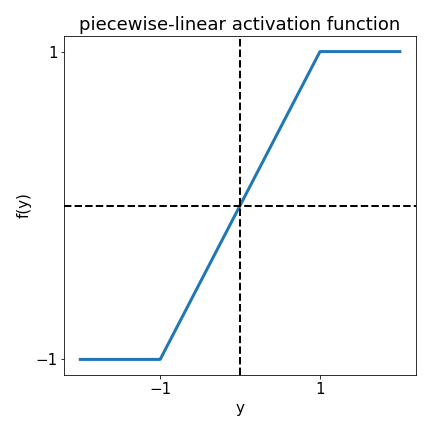
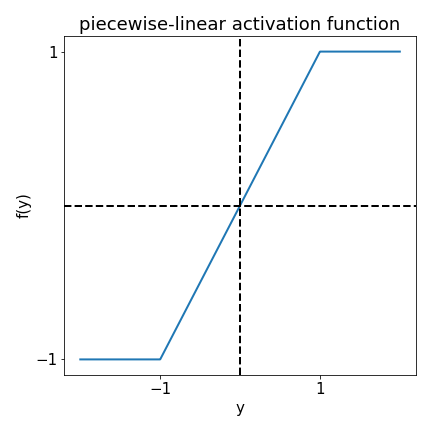
fixed attractor basins

diff --git a/BSB.py b/BSB.py
@@ -26,7 +26,7 @@ import os
 #%% figure parameters
 plt.rcParams['figure.figsize'] = (6,6)
 plt.rcParams['font.size']= 15
-plt.rcParams['lines.linewidth'] = 3
+plt.rcParams['lines.linewidth'] = 2
 
 #%% build BSB class
 class BSB:
@@ -48,8 +48,16 @@ class BSB:
     
     def initialize_connection_weights(self):
         """Initialize connection weights."""
-        weights = np.array([[0.035, -0.005],
-                            [-0.005, 0.035]])
+        max_eigenvector = np.array([[1], [-1]])
+        max_eigenvalue = 0.04
+
+        min_eigenvector = np.array([[1], [1]])
+        min_eigenvalue = 0.03
+        
+        max_weights = max_eigenvalue * 0.5 * np.dot(max_eigenvector, max_eigenvector.T)
+        min_weights = min_eigenvalue * 0.5 * np.dot(min_eigenvector, min_eigenvector.T)
+        
+        weights = max_weights + min_weights
         return weights
     
     def run_model(self, input_patterns, weights):
@@ -65,39 +73,7 @@ class BSB:
                 output_patterns[index].append(output_pattern)
                 iteration_count += 1
         return output_patterns
-    
-    def show_attractor_basin_boundary(self, x_n, y_n, k_1, k_2, lambda_min, lambda_max, ax):
-        """Show boundaries that separate distinct basins of attraction."""
-        # first set of boundaries
-        ax.plot(y_n, k_1 * y_n ** (lambda_min/lambda_max), c='k')
-        ax.plot(-y_n, -k_1 * y_n ** (lambda_min/lambda_max), c='k')
-        # second set of boundaries
-        ax.plot(x_n, k_2 * x_n ** (lambda_max/lambda_min), c='k')
-        ax.plot(-x_n, -k_2 * x_n ** (lambda_max/lambda_min), c='k')
-        
-    def show_attractor_basin(self, x_final_state, y_final_state, x_n, y_n, k_1, k_2, lambda_min, lambda_max, ax):
-        """Show basin of attraction based on output pattern."""
-        # top right corner
-        if [x_final_state, y_final_state] == [1, 1]:
-            ax.fill_between(x=y_n, y1=0, y2=1, color='grey', zorder=0)
-            ax.fill_between(x=y_n, y1=0, y2=k_1 * y_n ** (lambda_min/lambda_max), color='white')
-            ax.fill_between(x=x_n, y1=1, y2=k_2 * x_n ** (lambda_max/lambda_min), color='white')
-        # top left corner
-        if [x_final_state, y_final_state] == [-1, 1]:
-            ax.fill_between(x=-y_n, y1=0, y2=1, color='grey', zorder=0)
-            ax.fill_between(x=x_n,  y1=1, y2=k_2 * x_n ** (lambda_max/lambda_min), color='grey', zorder=0)
-            ax.fill_between(x=-y_n, y1=0, y2=-k_1 * y_n ** (lambda_min/lambda_max), color='grey', zorder=0)
-        # bottom left corner
-        if [x_final_state, y_final_state] == [-1, -1]:
-            ax.fill_between(x=-y_n, y1=0,  y2=-1, color='grey', zorder=0)
-            ax.fill_between(x=-x_n, y1=-1, y2=-k_2 * x_n ** (lambda_max/lambda_min), color='white')
-            ax.fill_between(x=-y_n, y1=0,  y2=-k_1 * y_n ** (lambda_min/lambda_max), color='white')
-        # bottom right corner
-        if [x_final_state, y_final_state] == [1, -1]:
-            ax.fill_between(x=y_n,  y1=0,  y2=-1, color='grey', zorder=0)
-            ax.fill_between(x=y_n,  y1=-1, y2=k_1 * y_n ** (lambda_min/lambda_max), color='grey', zorder=0)
-            ax.fill_between(x=-x_n, y1=-1, y2=-k_2 * x_n ** (lambda_max/lambda_min), color='grey', zorder=0)
-            
+                        
     def plot_activation_function(self):
         """Plot piecewise-linear activation function."""
         fig, ax = plt.subplots()
@@ -114,7 +90,31 @@ class BSB:
         fig.tight_layout()
         fig.savefig(os.path.join(os.getcwd(), 'figure_1'))
         
-    def plot_bsb_dynamics(self, x_n, y_n, k_1, k_2, lambda_min, lambda_max):
+    def plot_attractor_basin_boundary(self, lambda_min, lambda_max, ax):
+        """Plot boundaries that separate distinct basins of attraction."""
+        # attractor intersections
+        x0 = (lambda_max * np.sqrt(2)) / (lambda_min + lambda_max)
+        y0 = (lambda_min * np.sqrt(2)) / (lambda_min + lambda_max)
+        # attractor coefficient
+        k = y0 / x0 ** (lambda_max/lambda_min)
+        # x-coordinates
+        x = np.linspace(-1, 1, 100)
+        # y-coordinates
+        y_pos =  k * np.sign(x) * abs(x) ** (lambda_max/lambda_min)
+        y_neg = -k * np.sign(x) * abs(x) ** (lambda_max/lambda_min)
+        # rotation angle
+        rotation_angle = np.pi/4
+        # rotation matrix
+        counterclockwise_rotation_matrix = np.array([[np.cos(rotation_angle), -np.sin(rotation_angle)],
+                                                     [np.sin(rotation_angle),  np.cos(rotation_angle)]])
+        # rotate attractor basins
+        x_bounary_pos, y_bounary_pos = np.dot(counterclockwise_rotation_matrix, np.array([x, y_pos]))
+        x_bounary_neg, y_bounary_neg = np.dot(counterclockwise_rotation_matrix, np.array([x, y_neg]))
+        # plot boundaries
+        ax.plot(x_bounary_pos, y_bounary_pos, color='k')
+        ax.plot(x_bounary_neg, y_bounary_neg, color='k')
+        
+    def plot_bsb_dynamics(self, lambda_min, lambda_max):
         """Plot two BSB neurons operating under 4 different initial conditions."""
         fig, ax = plt.subplots(nrows=2, ncols=2)
         ax = ax.ravel()
@@ -130,20 +130,20 @@ class BSB:
             ax[i].scatter(x_final_state, y_final_state, s=150, color='r')
             ax[i].plot(x, y, color='k')
             # show basin of attraction boundary
-            self.show_attractor_basin_boundary(x_n, y_n, k_1, k_2, lambda_min, lambda_max, ax=ax[i])
-            # show basin of attraction
-            self.show_attractor_basin(x_final_state, y_final_state, x_n, y_n, k_1, k_2, lambda_min, lambda_max, ax=ax[i])
+            self.plot_attractor_basin_boundary(lambda_min, lambda_max, ax=ax[i])
             # add vertical and horizontal lines
             ax[i].axvline(x=0, color='k', ls='-', lw=2)
             ax[i].axhline(y=0, color='k', ls='-', lw=2)
             # set xticks and yticks
             ax[i].set_xticks([])
             ax[i].set_yticks([])
+            ax[i].set_ylim(-1.1, 1.1)
+            ax[i].set_xlim(-1.1, 1.1)
+                        
         fig.suptitle('four distinct basins of attraction')
         fig.tight_layout()
         fig.savefig(os.path.join(os.getcwd(), 'figure_2'))
-    
-    
+        
 #%% instantiate BSB class
 model = BSB()
 
@@ -160,18 +160,6 @@ output_patterns = model.run_model(input_patterns, weights)
 eigenvalues, eigenvectors = np.linalg.eigh(weights)
 lambda_min = eigenvalues[0].round(2)
 lambda_max = eigenvalues[1].round(2)
-# determine the intersection with the boundary four (unstable) equilibrium points
-x_value = lambda_max * np.sqrt(2) / (lambda_min + lambda_max)
-# get unstable equilibrium points
-x_0 = 1-x_value
-y_0 = 1
-# get x and y coordinates
-n_points = 100
-x_n = np.linspace(0, x_0, n_points)
-y_n = np.linspace(0, y_0, n_points)
-# get attractor coefficients
-k_1 = x_0/y_0**(lambda_min/lambda_max)
-k_2 = y_0/x_0**(lambda_max/lambda_min)
 
 #%% make figures
 cwd = os.getcwd()                                                               # get current working directory
@@ -190,12 +178,5 @@ else:
 model.plot_activation_function()
 
 # plot bsb dynamics
-model.plot_bsb_dynamics(x_n, y_n, k_1, k_2, lambda_min, lambda_max)
-
-#%% remove variables
-del x_0, x_n
-del y_0, y_n
-del k_1, k_2
-del lambda_min, lambda_max
-del n_points, x_value, fileName
+model.plot_bsb_dynamics(lambda_min, lambda_max)
 
